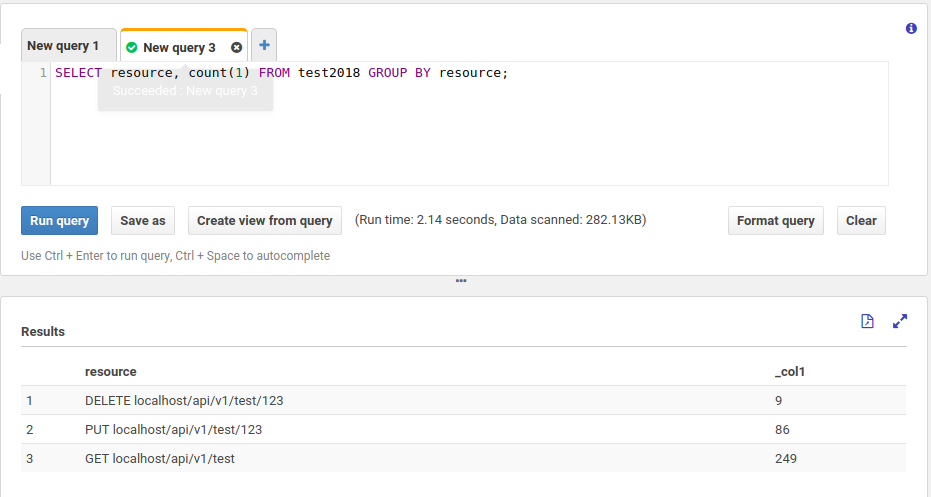
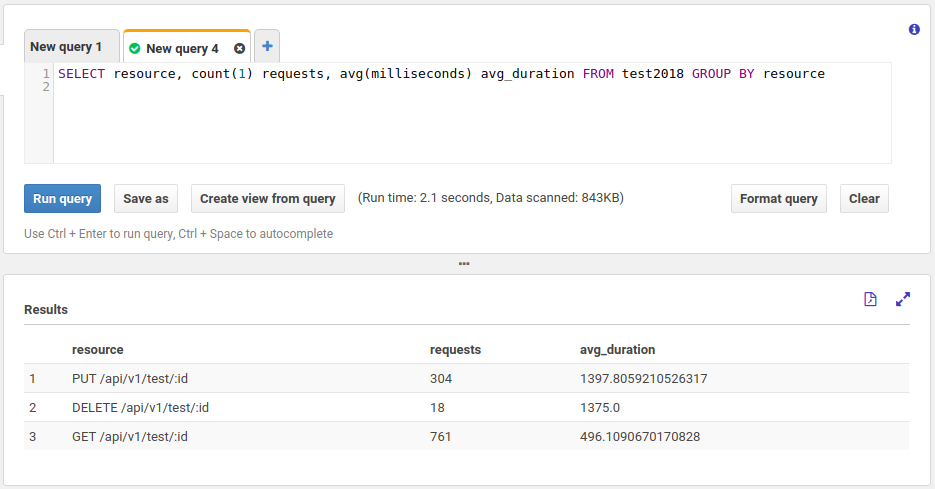
ADD catch the express path pattern

diff --git a/scratch/app.js b/scratch/app.js
@@ -32,7 +32,7 @@ app.use(ApiLogger({
   ]
 }))
 
-app.get("/api/v1/test", (req, res) => {
+app.get("/api/v1/test/:id", (req, res) => {
   setTimeout(() =>
     res.send({ msg: "ok" })
   , Math.random() * 1000)
@@ -45,6 +45,7 @@ app.put("/api/v1/test/:id", (req, res) => {
 })
 
 app.delete("/api/v1/test/:id", (req, res) => {
+
   setTimeout(() =>
     res.send({ msg: "ok" })
   , Math.random() * 3000)
@@ -52,7 +53,7 @@ app.delete("/api/v1/test/:id", (req, res) => {
 
 
 setInterval(() => 
-  axios.get("http://localhost:3000/api/v1/test")
+  axios.get("http://localhost:3000/api/v1/test/234")
 , 200)
 
 

diff --git a/index.js b/index.js
@@ -20,7 +20,7 @@ function decoreSend(req, res, extracts) {
       protocol
     } = req
 
-    const resource = `${method} ${hostname}${path}`
+    const resource = `${method} ${req.route.path}`
 
     const isJson = res._headers["content-type"] === "application/json"
     const data = (req.method !== "GET" && isJson && _.isString(body))

diff --git a/README.md b/README.md
@@ -47,7 +47,7 @@ app.use(ApiLogger({
 }))
 
 
-app.get("/api/v1/test", (req, res) => {
+app.get("/api/v1/test/:id", (req, res) => {
   setTimeout(() =>
     res.send({ msg: "ok" })
   , Math.random() * 1000)
@@ -67,7 +67,7 @@ app.delete("/api/v1/test/:id", (req, res) => {
 
 
 setInterval(() => 
-  axios.get("http://localhost:3000/api/v1/test")
+  axios.get("http://localhost:3000/api/v1/test/234")
 , 200)
 
 
